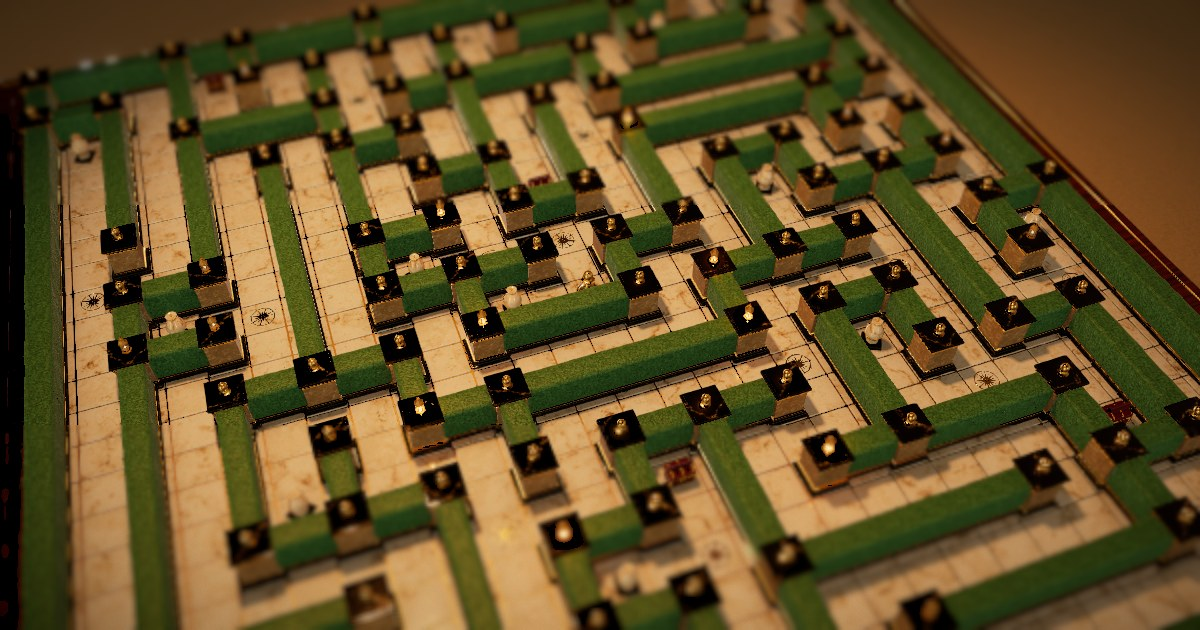
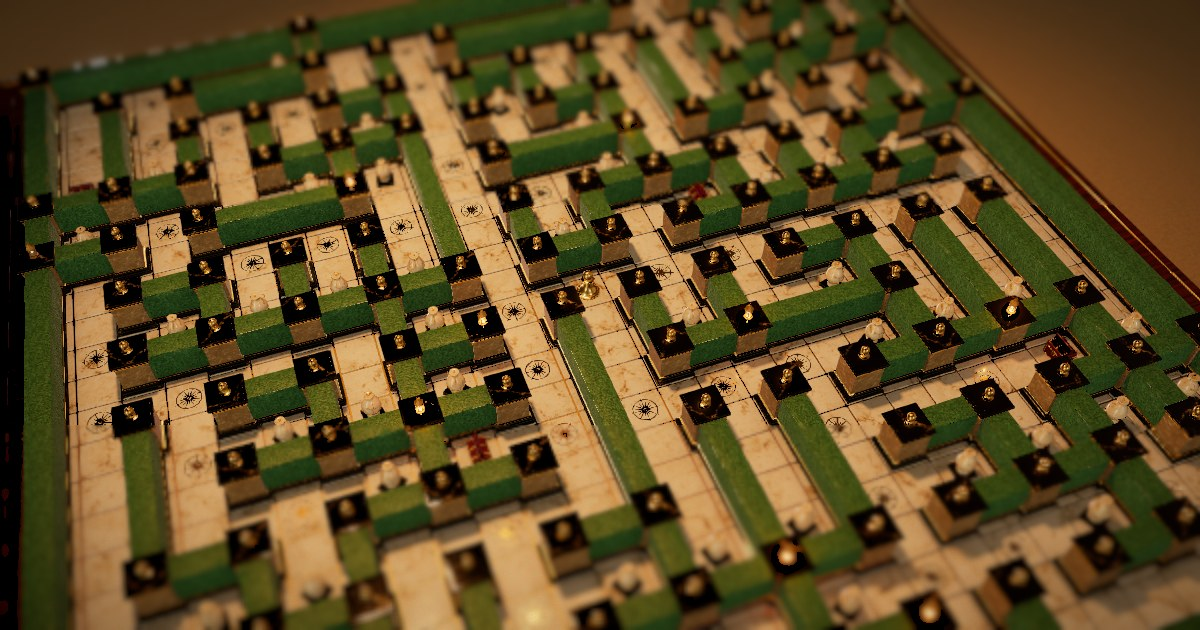
Bouton « Découvrir mon univers » ; labyrinthe plus ramifié (58 fausses pistes) avec coffrets proches du bon chemin ; image de partage mise à jour
Claude-Session: https://claude.ai/code/session_01L7scmxCXE1otMc979BP9XD

diff --git a/src/maze.js b/src/maze.js
@@ -5,8 +5,9 @@
 
 export const CELLS = 13;
 export const SIZE = CELLS * 2 + 1; // 27
-export const SEED = 790;            // ne pas changer : le labyrinthe resterait différent
+export const SEED = 225;            // ne pas changer : le labyrinthe resterait différent
 export const COFFRET_COUNT = 6;
+export const COFFRET_DEPTH = [3, 10]; // longueur des impasses à coffret (en cases depuis le bon chemin)
 
 export const START = { x: 1, y: 1 };                 // en haut à gauche
 export const EXIT = { x: SIZE - 2, y: SIZE - 2 };    // en bas à droite
@@ -52,6 +53,39 @@ function carve(rand) {
   return grid;
 }
 
+/**
+ * Variante « Prim » : arbre couvrant aussi (un seul chemin, aucune boucle), mais beaucoup
+ * de petites ramifications → nombreuses fausses pistes courtes, chemin principal plus direct.
+ */
+function carvePrim(rand) {
+  const grid = Array.from({ length: SIZE }, () => new Uint8Array(SIZE).fill(1));
+  const inMaze = (x, y) => grid[y][x] === 0;
+  const frontier = [];
+  const addFrontier = (x, y) => {
+    for (const d of DIRS) {
+      const nx = x + d.x * 2, ny = y + d.y * 2;
+      if (nx > 0 && ny > 0 && nx < SIZE - 1 && ny < SIZE - 1 && !inMaze(nx, ny)) frontier.push([nx, ny]);
+    }
+  };
+  grid[START.y][START.x] = 0;
+  addFrontier(START.x, START.y);
+  while (frontier.length) {
+    const i = Math.floor(rand() * frontier.length);
+    const [cx, cy] = frontier[i];
+    frontier[i] = frontier[frontier.length - 1]; frontier.pop();
+    if (inMaze(cx, cy)) continue;
+    const links = DIRS.filter((d) => {
+      const nx = cx + d.x * 2, ny = cy + d.y * 2;
+      return nx > 0 && ny > 0 && nx < SIZE - 1 && ny < SIZE - 1 && inMaze(nx, ny);
+    });
+    const d = links[Math.floor(rand() * links.length)];
+    grid[cy][cx] = 0;
+    grid[cy + d.y][cx + d.x] = 0;
+    addFrontier(cx, cy);
+  }
+  return grid;
+}
+
 function bfs(grid, from) {
   const dist = new Int32Array(SIZE * SIZE).fill(-1);
   const prev = new Int32Array(SIZE * SIZE).fill(-1);
@@ -82,7 +116,7 @@ function openNeighbours(grid, x, y) {
 /** Construit le labyrinthe complet et la liste des objets à placer. */
 export function buildMaze(seed = SEED) {
   const rand = mulberry32(seed);
-  const grid = carve(rand);
+  const grid = carvePrim(rand);
   grid[GATE.y][GATE.x] = 0; // ouverture de la grille d'or dans le mur extérieur
 
   // Chemin unique départ → sortie
@@ -119,15 +153,18 @@ export function buildMaze(seed = SEED) {
   }
 
   // 6 coffrets : impasses profondes et bien réparties (sélection gloutonne)
-  const candidates = deadEnds.filter((d) => d.depth >= 6).sort((a, b) => b.depth - a.depth);
-  const pool = candidates.length >= COFFRET_COUNT ? candidates : [...deadEnds].sort((a, b) => b.depth - a.depth);
-  const chosen = [pool[0]];
+  // Coffrets : au fond d'impasses COURTES (3 à 10 pas du bon chemin), faciles à atteindre,
+  // et bien répartis sur tout le plateau (sélection gloutonne par éloignement).
+  let pool = deadEnds.filter((d) => d.depth >= COFFRET_DEPTH[0] && d.depth <= COFFRET_DEPTH[1]);
+  if (pool.length < COFFRET_COUNT) pool = [...deadEnds].sort((a, b) => a.depth - b.depth);
+  const center = (SIZE - 1) / 2;
+  const chosen = [pool.reduce((a, b) => (Math.hypot(b.x - 3, b.y - (SIZE - 4)) < Math.hypot(a.x - 3, a.y - (SIZE - 4)) ? b : a))];
   while (chosen.length < COFFRET_COUNT) {
     let best = null, bestScore = -Infinity;
     for (const c of pool) {
       if (chosen.includes(c)) continue;
       const minD = Math.min(...chosen.map((o) => Math.hypot(o.x - c.x, o.y - c.y)));
-      const score = minD * 1.0 + c.depth * 0.35;
+      const score = minD - Math.abs(c.depth - 5) * 0.4 - Math.hypot(c.x - center, c.y - center) * 0.05;
       if (score > bestScore) { bestScore = score; best = c; }
     }
     chosen.push(best);

diff --git a/src/scene/objects.js b/src/scene/objects.js
@@ -128,8 +128,8 @@ export function createVases(maze, mats) {
   const body = smoothProfile([
     [0, 0], [0.13, 0], [0.15, 0.02], [0.12, 0.05], [0.1, 0.08], [0.16, 0.16], [0.21, 0.27], [0.215, 0.34],
     [0.19, 0.43], [0.13, 0.52], [0.09, 0.57], [0.085, 0.62], [0.11, 0.66], [0.125, 0.68], [0.115, 0.69], [0.07, 0.675], [0.0, 0.66],
-  ], 44);
-  const vaseGeo = lathe(body, 32);
+  ], 30);
+  const vaseGeo = lathe(body, 24);
   const ivory = [], gold = [], nero = [];
   const rand = mulberry32(77);
   for (const v of maze.vases) {
@@ -143,16 +143,16 @@ export function createVases(maze, mats) {
     ivory.push(g);
     // anses en volute et bouton doré
     for (const side of [-1, 1]) {
-      const hdl = new THREE.TorusGeometry(0.065 * s, 0.009, 8, 24, Math.PI * 1.3);
+      const hdl = new THREE.TorusGeometry(0.065 * s, 0.009, 6, 14, Math.PI * 1.3);
       hdl.rotateZ(side > 0 ? -0.75 : Math.PI - 1.4);
       const hx = Math.cos(ry) * side * 0.17 * s, hz = -Math.sin(ry) * side * 0.17 * s;
       const hm = place(hdl, 0, 0, 0, ry);
       hm.translate(x + hx, by + 0.1 + 0.5 * s, z + hz);
       gold.push(hm);
     }
-    gold.push(place(new THREE.SphereGeometry(0.03 * s, 16, 12), x, by + 0.1 + 0.69 * s, z));
+    gold.push(place(new THREE.SphereGeometry(0.03 * s, 10, 8), x, by + 0.1 + 0.69 * s, z));
     for (const [ry0, rr] of [[0.27, 0.218], [0.62, 0.09], [0.66, 0.112]]) {
-      const t = new THREE.TorusGeometry(rr * s, 0.008, 6, 32); t.rotateX(Math.PI / 2);
+      const t = new THREE.TorusGeometry(rr * s, 0.008, 5, 24); t.rotateX(Math.PI / 2);
       gold.push(place(t, x, by + 0.1 + ry0 * s, z));
     }
   }

diff --git a/src/scene/architecture.js b/src/scene/architecture.js
@@ -257,7 +257,7 @@ const pillarGeos = () => (PILLAR_GEOS ||= {
   shaft: squareLathe(PILLAR_PARTS.shaft),
   capital: squareLathe(PILLAR_PARTS.capital),
   abacus: squareLathe(PILLAR_PARTS.abacus),
-  finial: roundLathe([[0, 0], [0.13, 0], [0.13, 0.018], ...cubic([0.12, 0.022], [0.06, 0.03], [0.05, 0.06], [0.05, 0.075], 8), ...arc(0.05, 0.085, 0.012, -Math.PI / 2, Math.PI / 2, 3), [0.04, 0.1], ...arc(0, 0.2, 0.105, -Math.PI / 2 + 0.38, Math.PI / 2 - 0.12, 10), [0.008, 0.31], [0, 0.335]], 24),
+  finial: roundLathe([[0, 0], [0.13, 0], [0.13, 0.018], ...cubic([0.12, 0.022], [0.06, 0.03], [0.05, 0.06], [0.05, 0.075], 8), ...arc(0.05, 0.085, 0.012, -Math.PI / 2, Math.PI / 2, 3), [0.04, 0.1], ...arc(0, 0.2, 0.105, -Math.PI / 2 + 0.38, Math.PI / 2 - 0.12, 10), [0.008, 0.31], [0, 0.335]], 16),
 });
 
 function addPillar(B, x, z, repeat, ball) {
@@ -313,7 +313,7 @@ function rosetteGeometry() {
   const ring = new THREE.Shape(); ring.absarc(0, 0, 0.3, 0, Math.PI * 2, false);
   const rh = new THREE.Path(); rh.absarc(0, 0, 0.285, 0, Math.PI * 2, true); ring.holes.push(rh);
   const dot = new THREE.Shape(); dot.absarc(0, 0, 0.03, 0, Math.PI * 2, false);
-  const opt = { depth: 0.004, bevelEnabled: true, bevelThickness: 0.002, bevelSize: 0.003, bevelSegments: 1, curveSegments: 48 };
+  const opt = { depth: 0.004, bevelEnabled: true, bevelThickness: 0.002, bevelSize: 0.003, bevelSegments: 1, curveSegments: 20 };
   const g = mergeGeometries([star, ring, dot].map((sh) => new THREE.ExtrudeGeometry(sh, opt)), false);
   g.rotateX(-Math.PI / 2);
   return g;

diff --git a/src/content.js b/src/content.js
@@ -18,7 +18,7 @@ export const content = {
     overline: "Portfolio interactif",
     title: "Le Labyrinthe",
     text: "Six coffrets sont cachés au fond des fausses pistes. Chacun renferme une question, et ma réponse. Un seul chemin mène à la grille d'or.",
-    button: "Entrer dans le jeu",
+    button: "Découvrir mon univers",
     skipLink: "Pas le temps de jouer ? Voir directement mon parcours →",
     controls: "Flèches, ZQSD ou WASD pour avancer · clic sur une case alignée · glisser pour tourner la vue",
   },
